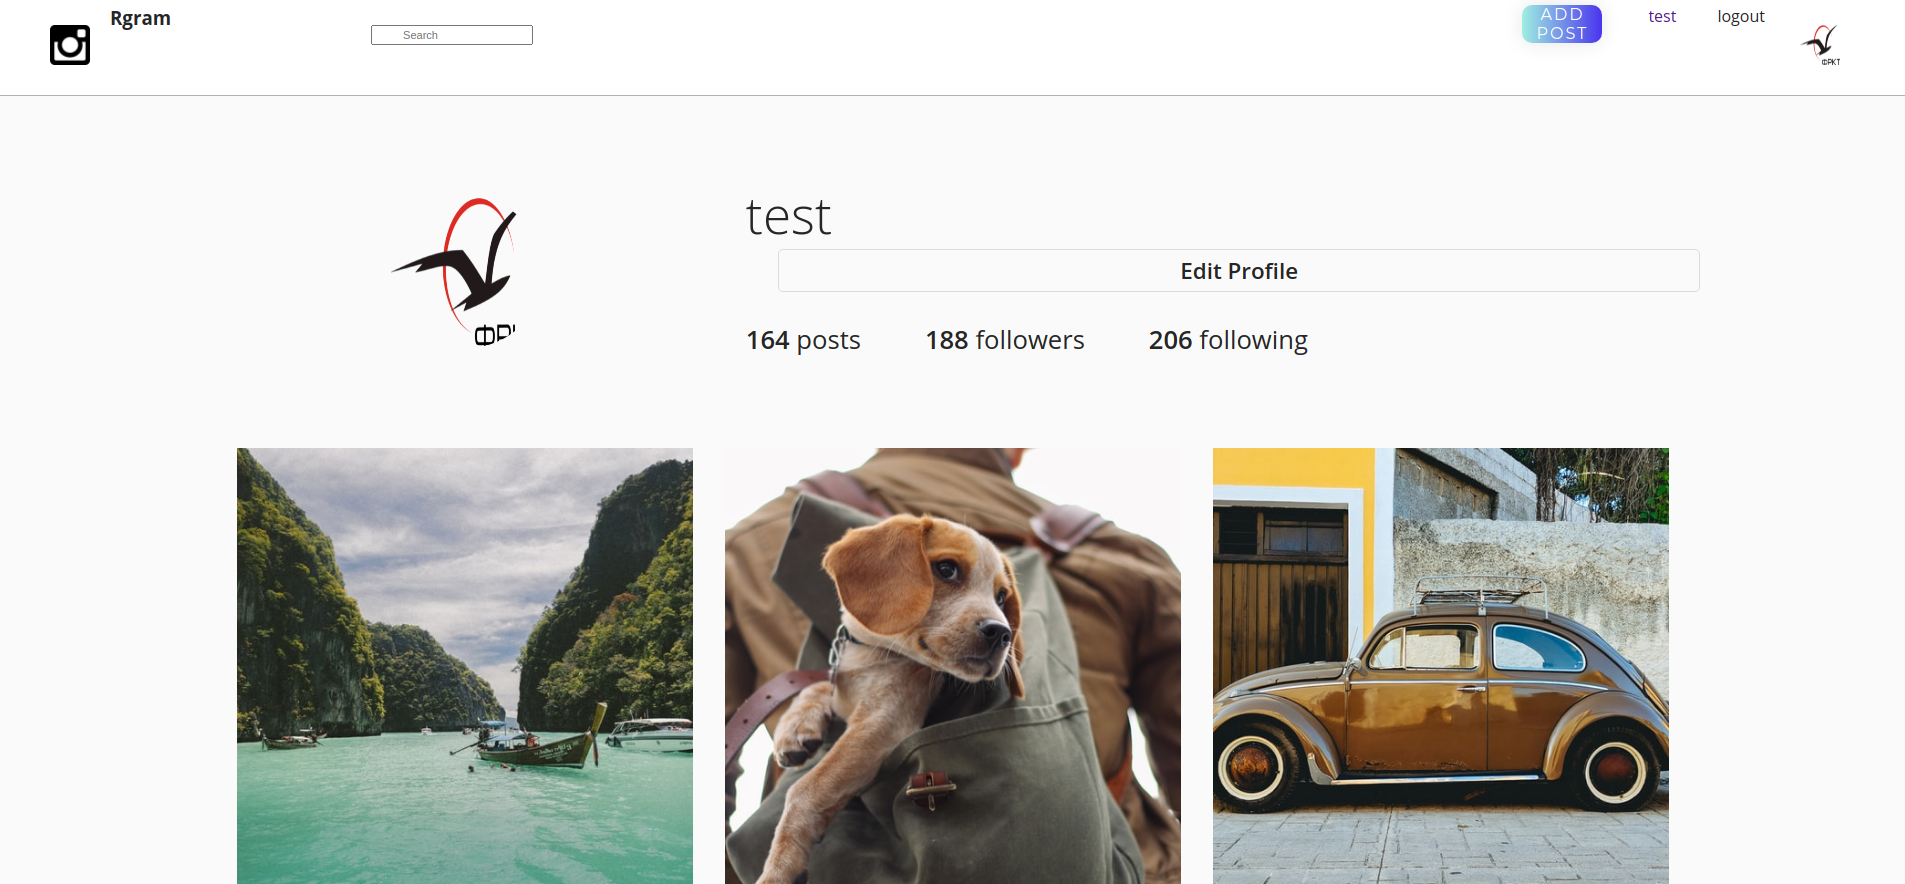
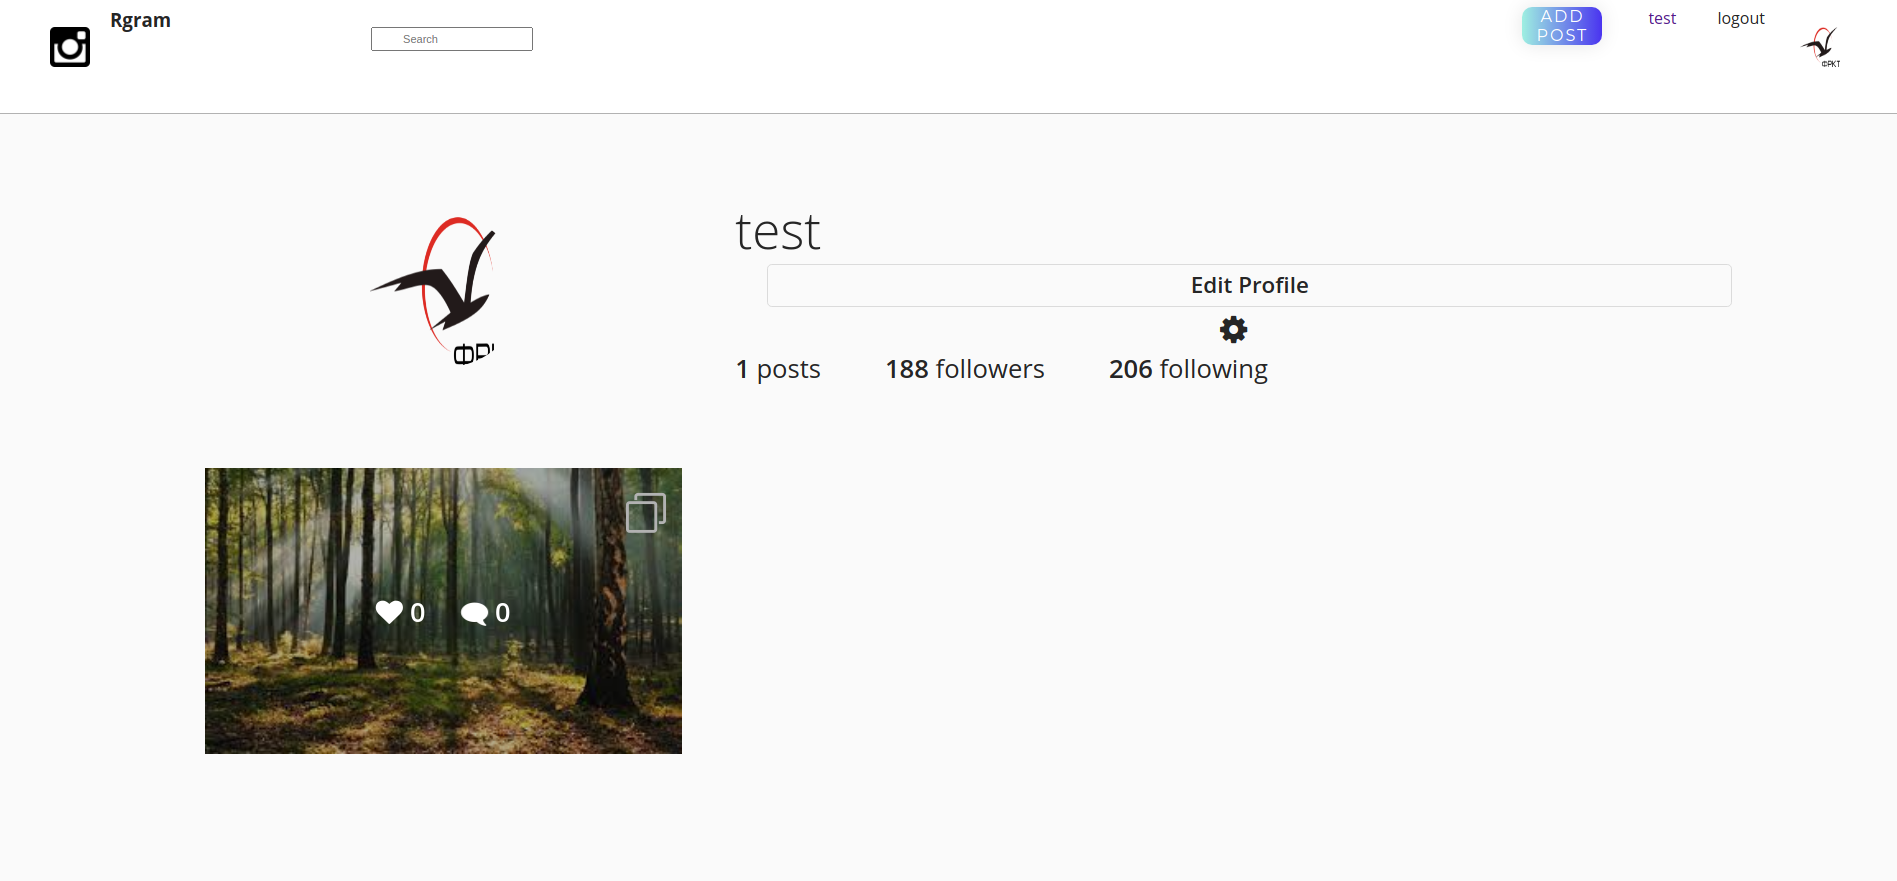
added  profile view

diff --git a/frontend/src/Components/Profile.js b/frontend/src/Components/Profile.js
@@ -1,40 +1,62 @@
-import {Component} from "react";
+import React, {Component} from "react";
 import "./Profile.css"
 import {withRouter} from "react-router-dom";
 import {connect} from "react-redux";
+import {getPostThunk} from "../Actions/getPostActions";
 
 class Profile extends Component{
-
-
-    render_image(){
-
-        let response =     ( <div className="gallery-item" tabIndex="0">
-            <img src="https://images.unsplash.com/photo-1504214208698-ea1916a2195a?w=500&h=500&fit=crop"
-                 className="gallery-image" alt=""/>
-            <div className="gallery-item-type">
-                <span className="visually-hidden">Gallery</span><i className="fas fa-clone" aria-hidden="true"></i>
-            </div>
-            <div className="gallery-item-info">
-                <ul>
-                    <li className="gallery-item-likes"><span
-                        className="visually-hidden">Likes:</span><i className="fas fa-heart"
-                                                                    aria-hidden="true"></i> 52
-                    </li>
-                    <li className="gallery-item-comments"><span
-                        className="visually-hidden">Comments:</span><i className="fas fa-comment"
-                                                                       aria-hidden="true"></i> 4
-                    </li>
-                </ul>
-
-            </div>
-        </div>)
-
+    constructor(props){
+        super(props);
+        this.username = localStorage.getItem('username');
+        this.state = {
+            array_post : []
+        }
     }
 
 
+    componentDidMount() {
+        fetch('/api/user_post/' + this.username , {
+            headers: {
+                Authorization: `JWT ${localStorage.getItem('token')}`,
+                'Content-Type': 'application/json',
+                accept : 'application/json'
+            }
+        })
+            .then(res => res.json())
+            .then(json => {
+                json.forEach(element =>{
+                    let response = (
+                        <div className="gallery-item" tabIndex="0">
+                            <img src={element.image}
+                                 className="gallery-image" alt=""/>
+                            <div className="gallery-item-type">
+                                <span className="visually-hidden">Gallery</span><i className="fa fa-clone" aria-hidden="true"/>
+                            </div>
+                            <div className="gallery-item-info">
+                                <ul>
+                                    <li className="gallery-item-likes"><span
+                                        className="visually-hidden">Likes:</span><i className="fa  fa-heart"
+                                                                                    aria-hidden="true"/> {element.likes.length}
+                                    </li>
+                                    <li className="gallery-item-comments"><span
+                                        className="visually-hidden">Comments:</span><i className="fa fa-comment"
+                                                                                       aria-hidden="true"/> {element.comments.length}
+                                    </li>
+                                </ul>
+                            </div>
+                        </div>
+                    );
+                    this.setState({array_post: this.state.array_post.concat([response])})
+                })
+            });
+    }
+
+
+
+
     render() {
-        let username = localStorage.getItem('username');
-        let image = localStorage.getItem('avatar').replace("8000","4433").replace("/nginx","")
+        let image = localStorage.getItem('avatar').replace("8000","4433").replace("/nginx","");
+        let countPost = this.state.array_post.length;
         return (
         <div className="set" >
             <header>
@@ -44,14 +66,14 @@ class Profile extends Component{
                             <img src={image} alt="profile" className="profile-logo" />
                         </div>
                         <div className="profile-user-settings">
-                            <h1 className="profile-user-name">{username}</h1>
+                            <h1 className="profile-user-name">{this.username }</h1>
                             <button className="btn profile-edit-btn">Edit Profile</button>
                             <button className="btn profile-settings-btn" aria-label="profile settings">
-                                <i className="fas fa-cog" aria-hidden="true"></i></button>
+                                <i className="fa fa-cog" aria-hidden="true"/></button>
                         </div>
                         <div className="profile-stats">
                             <ul>
-                                <li><span className="profile-stat-count">164</span> posts</li>
+                                <li><span className="profile-stat-count">{countPost}</span> posts</li>
                                 <li><span className="profile-stat-count">188</span> followers</li>
                                 <li><span className="profile-stat-count">206</span> following</li>
                             </ul>
@@ -65,81 +87,9 @@ class Profile extends Component{
 
                     <div className="gallery">
 
-
-
-                        <div className="gallery-item" tabIndex="0">
-                            <img src="https://images.unsplash.com/photo-1504214208698-ea1916a2195a?w=500&h=500&fit=crop"
-                                 className="gallery-image" alt=""/>
-                            <div className="gallery-item-type">
-                                <span className="visually-hidden">Gallery</span><i className="fas fa-clone" aria-hidden="true"></i>
-                            </div>
-                            <div className="gallery-item-info">
-                                <ul>
-                                    <li className="gallery-item-likes"><span
-                                        className="visually-hidden">Likes:</span><i className="fas fa-heart"
-                                                                                    aria-hidden="true"></i> 52
-                                    </li>
-                                    <li className="gallery-item-comments"><span
-                                        className="visually-hidden">Comments:</span><i className="fas fa-comment"
-                                                                                       aria-hidden="true"></i> 4
-                                    </li>
-                                </ul>
-
-                            </div>
-                    </div>
-
-
-
-                        <div className="gallery-item" tabIndex="0">
-                            <img src="https://images.unsplash.com/photo-1504214208698-ea1916a2195a?w=500&h=500&fit=crop"
-                                 className="gallery-image" alt=""/>
-                            <div className="gallery-item-type">
-                                <span className="visually-hidden">Gallery</span><i className="fas fa-clone" aria-hidden="true"></i>
-                            </div>
-                            <div className="gallery-item-info">
-                                <ul>
-                                    <li className="gallery-item-likes"><span
-                                        className="visually-hidden">Likes:</span><i className="fas fa-heart"
-                                                                                    aria-hidden="true"></i> 52
-                                    </li>
-                                    <li className="gallery-item-comments"><span
-                                        className="visually-hidden">Comments:</span><i className="fas fa-comment"
-                                                                                       aria-hidden="true"></i> 4
-                                    </li>
-                                </ul>
-
-                            </div>
-                        </div>
-
-
-
-                        <div className="gallery-item" tabIndex="0">
-                            <img src="https://images.unsplash.com/photo-1504214208698-ea1916a2195a?w=500&h=500&fit=crop"
-                                 className="gallery-image" alt=""/>
-                            <div className="gallery-item-type">
-                                <span className="visually-hidden">Gallery</span><i className="fas fa-clone" aria-hidden="true"></i>
-                            </div>
-                            <div className="gallery-item-info">
-                                <ul>
-                                    <li className="gallery-item-likes"><span
-                                        className="visually-hidden">Likes:</span><i className="fas fa-heart"
-                                                                                    aria-hidden="true"></i> 52
-                                    </li>
-                                    <li className="gallery-item-comments"><span
-                                        className="visually-hidden">Comments:</span><i className="fas fa-comment"
-                                                                                       aria-hidden="true"></i> 4
-                                    </li>
-                                </ul>
-
-                            </div>
-                        </div>
-
-
-
-
-
-
-
+                     {this.state.array_post}
+                        <div></div>
+                        <div></div>
 
                     </div>
                 </div>

diff --git a/frontend/src/Components/LoginUserForm.js b/frontend/src/Components/LoginUserForm.js
@@ -46,7 +46,7 @@ class LoginForm extends React.Component {
                     localStorage.setItem('username', json.user.username);
                     localStorage.setItem('id_user', json.user.id);
                     window.location = "/"
-                    return
+
                 }catch (e) {
                     alert(json.non_field_errors[0])
                 }
@@ -66,17 +66,17 @@ class LoginForm extends React.Component {
                             value={this.state.username}
                             onChange={this.handle_change}
                             placeholder="Username"
-                            className="input-1" />
+                            className="input-1" required={true}/>
                         <div className ="overlap-text">
                             <input type="password"
                                    name="password"
                                    value={this.state.password}
                                    onChange={this.handle_change}
                                    placeholder="Password"
-                                   className ="input-2" />
+                                   className ="input-2" required={true}/>
                             <a href="/">Forgot?</a>
                         </div>
-                        <input type="submit" value="Log in" className="btn" />
+                        <input type="submit" value="Log in" />
                         </form>
                     </div>
                 </div>

diff --git a/frontend/src/Components/AddPost.js b/frontend/src/Components/AddPost.js
@@ -59,8 +59,8 @@ class AddPost extends React.Component {
     return (
       <div className="post-area">
         <div className="add-post-area">
-          <h1>create post</h1>
-          <input type="file" name="image" multiple accept="image/*,image/jpeg"  width="500" onChange={this.handleFileChange}  required />
+          <h1>Create post</h1>
+          <input type="file" name="image" multiple accept="image/*,image/jpeg"  width="500" onChange={this.handleFileChange}  required={true} />
           <this.prew />
           <textarea name="title" value={this.state.title} onChange={this.handleChange} className="enter_caption" placeholder="title" />
           <textarea name="content" value={this.state.content} onChange={this.handleChange} className="enter_caption" placeholder="content" />

diff --git a/frontend/src/Components/PostFeed/PostFeed.js b/frontend/src/Components/PostFeed/PostFeed.js
@@ -18,10 +18,10 @@ class PostFeed extends React.Component {
     if(this.props.getPostReducer.data) {
       postList = this.props.getPostReducer.data.map((e, i) => {
       let likeCheck = false;
-      let likecount = e.likes.count
-        const items = []
-        e.tags.forEach(element => items.push(<a href={'/tags/' + element.name}>#{element.name} </a>))
-        let avatar
+      let likecount = e.likes.count;
+        const items = [];
+        e.tags.forEach(element => items.push(<a href={'/tags/' + element.name}>#{element.name} </a>));
+        let avatar;
         try {
           if (e.owner.avatar.includes("nginx")) {
             avatar = "http://localhost:4433" + e.owner.avatar.replace("/nginx", "");

diff --git a/frontend/src/App.js b/frontend/src/App.js
@@ -23,6 +23,7 @@ class App extends Component {
     const loader = "http://localhost:8000/templates/loader.gif";
     return (
       <Router>
+        <link rel="stylesheet" href="https://cdnjs.cloudflare.com/ajax/libs/font-awesome/4.7.0/css/font-awesome.min.css"/>
         <div>
           <Header />
           {this.props.getPostReducer.loading && <div className="loader-div"><img src={loader} className="loader"  alt="loader" /></div> }

diff --git a/frontend/src/Components/Profile.css b/frontend/src/Components/Profile.css
@@ -8,11 +8,7 @@
 }
 
 
-*,
-*::before,
-*::after {
-    box-sizing: border-box;
-}
+
 
 body {
     font-family: "Open Sans", Arial, sans-serif;

diff --git a/tech/urls.py b/tech/urls.py
@@ -2,13 +2,15 @@ from django.urls import path
 from rest_framework_jwt.views import obtain_jwt_token
 
 from tech.views import current_user, UserList, get_post, add_like, get_post_with_tag, MomentDetail, CommentList, \
-    CommentDetail, comments_with_id_post, create_tag
+    CommentDetail, comments_with_id_post, create_tag, get_post_with_username, get_post_with_id
 
 urlpatterns = [
     path('current_user/', current_user),
     path('users/', UserList.as_view()),
     path('token-auth/', obtain_jwt_token),
     path("posts/", get_post),
+    path("user_post/<username>", get_post_with_username),
+    path("post_with_id/<id_post>", get_post_with_id),
     path("create_post/", MomentDetail.as_view()),
     path("add_like", add_like),
     path("tag/<name>", get_post_with_tag),

diff --git a/tech/views.py b/tech/views.py
@@ -64,6 +64,20 @@ def comments_with_id_post(request: HttpRequest, pk):
 
 
 @api_view(['GET'])
+def get_post_with_username(request: HttpRequest, username):
+    all_moment = MomentModel.objects.filter(owner__username=username)
+    serializer = MomentSerializer(all_moment, many=True)
+    return Response(serializer.data)
+
+
+@api_view(['GET'])
+def get_post_with_id(request: HttpRequest, id_post):
+    all_moment = MomentModel.objects.filter(id=id_post)
+    serializer = MomentSerializer(all_moment, many=True)
+    return Response(serializer.data)
+
+
+@api_view(['GET'])
 def current_user(request: HttpRequest):
     serializer = UserSerializer(request.user)
     return Response(serializer.data)
